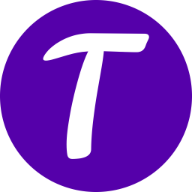
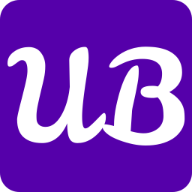
Hi

diff --git a/src/components/Hero.jsx b/src/components/Hero.jsx
@@ -16,7 +16,7 @@ const Hero = () => {
 
         <div>
           <h1 className={`${styles.heroHeadText} text-white`}>
-            Hi, I'm <span className="text-[#915EFF]">Tejas Indrale</span>
+            Hi, I'm <span className="text-[#915EFF]">Uday Berad</span>
           </h1>
           <p className={`${styles.heroSubText} mt-2 text-white-100`}>
             a Programmer and <br className="sm:block hidden" />

diff --git a/src/components/Navbar.jsx b/src/components/Navbar.jsx
@@ -44,7 +44,7 @@ const Navbar = () => {
         >
           <img src={logo} alt="logo" className="w-9 h-9 object-contain" />
           <p className="text-white text-[18px] font-bold cursor-pointer flex ">
-            <span className="sm:block hidden">Tejas Indrale</span>
+            <span className="sm:block hidden">Uday Berad</span>
           </p>
         </Link>
 

diff --git a/index.html b/index.html
@@ -4,7 +4,7 @@
     <meta charset="UTF-8" />
     <link rel="icon" type="image/svg+xml" href="/favicon.ico" />
     <meta name="viewport" content="width=device-width, initial-scale=1.0" />
-    <title>Tejas Indrale</title>
+    <title>Uday Berad</title>
   </head>
   <body>
     <div id="root"></div>
